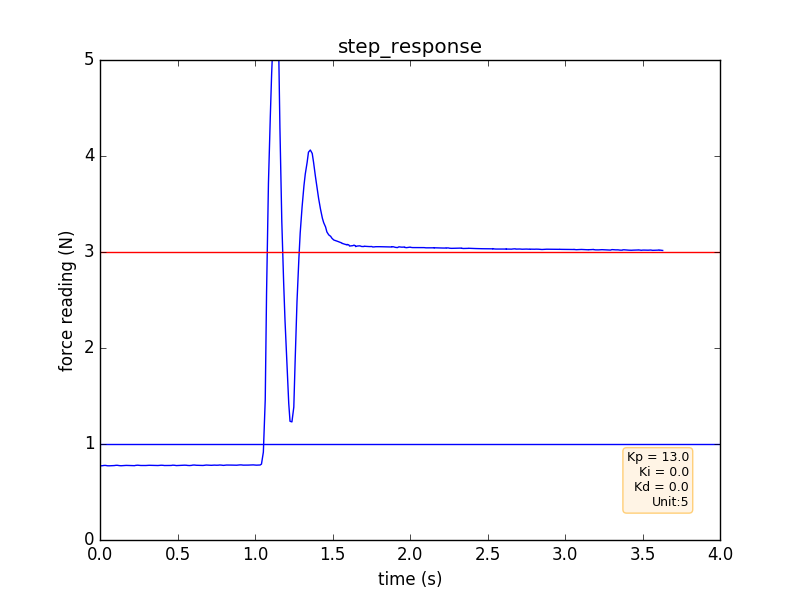
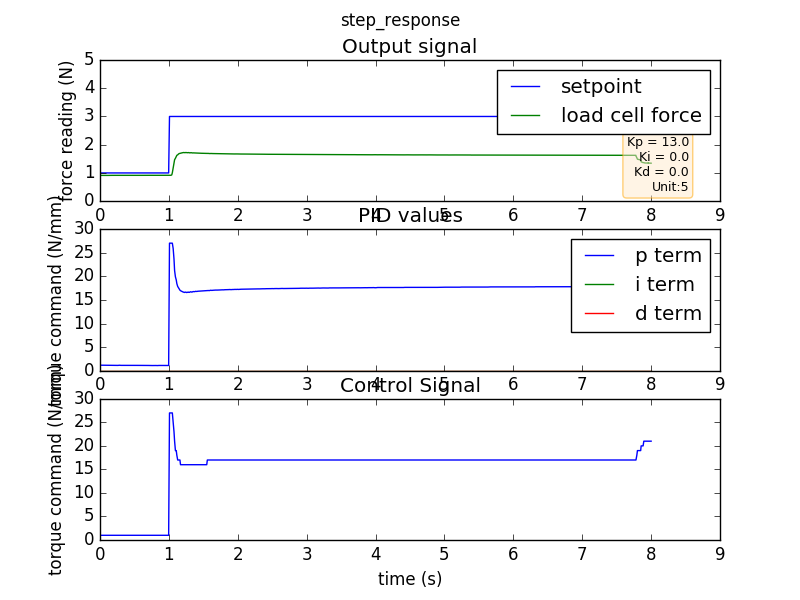
basic function work, will add multi_setpoint()

diff --git a/run_r2_torque_transient_response_tester.py b/run_r2_torque_transient_response_tester.py
@@ -33,6 +33,7 @@ import numpy as np
 import matplotlib.pyplot as plt
 import argparse
 from raven2_CRTK_torque_controller_FB import raven2_crtk_torque_controller
+import copy
 
 class torque_transient_response_tester():
 
@@ -134,14 +135,14 @@ class torque_transient_response_tester():
     #TODO: Create a callback function for torque command, extract the corresponding command from JointState msg based on the testing unit index
     def __callback_actual_torque_cmd(self, msg):
         #the torque cmd will be store in msg.position
-        #position is a list of size of 16, the force units occupy from 1 to 6
-        self.cur_tor_cmd = msg.position[self.testing_unit_index]
+        #position is a list of size of 16, the force units occupy from 0 to 5
+        self.cur_tor_cmd = msg.position[self.testing_unit_index-1]
     #TODO end
 
     #TODO: Create a callback function, extract the corresponding sublist from pid_msg based on the testing unit index
     def __callback_pid_term_val(self, msg):
         pid_term_for_unit = msg.poses[self.testing_unit_index].position
-        self.cur_p_term = pid_term_for_unit.x
+        self.cur_p_term = pid_term_for_unit.x 
         self.cur_i_term = pid_term_for_unit.y
         self.cur_d_term = pid_term_for_unit.z
     #TODO end
@@ -206,37 +207,51 @@ class torque_transient_response_tester():
         #plot the load cell force
         self.plotter("step_response")
 
+
+
         
 
     def plotter(self, plot_name="test"):
-        fig, ax = plt.subplots(2)
+        fig, ax = plt.subplots(3)
         fig.suptitle(plot_name)
 
         #plot setpoints, load cell readings and pid terms in first graph
         ax[0].plot(self.load_cell_force_times, self.setpoints, label="setpoint")
         ax[0].plot(self.load_cell_force_times, self.load_cell_forces, label="load cell force")
-        ax[0].plot(self.load_cell_force_times, self.p_terms, label="p term")
-        ax[0].plot(self.load_cell_force_times, self.i_terms, label="i term")
-        ax[0].plot(self.load_cell_force_times, self.d_terms, label="d term")
         ax[0].set(xlabel='time (s)', ylabel='force reading (N)')
-        ax[1].set_title("Output signal")
+        ax[0].set_title("Output signal")
 
         #display the pid parameter
         # add text box for the statistics
         stats = ('Kp = %.1f\nKi = %.1f\nKd = %.1f\nUnit:%i'%(self.pid_p, self.pid_i, self.pid_d, self.testing_unit_index))
         bbox = dict(boxstyle='round', fc='blanchedalmond', ec='orange', alpha=0.5)
-        ax[0].text(0.95, 0.07, stats, fontsize=9, bbox=bbox,transform=ax.transAxes, horizontalalignment='right')
+        ax[0].text(0.95, 0.07, stats, fontsize=9, bbox=bbox,transform=ax[0].transAxes, horizontalalignment='right')
         ax[0].set(ylim=(0, 5))
+        ax[0].legend()
+
+        #plot pid terms
+        ax[1].plot(self.load_cell_force_times, self.p_terms, label="p term")
+        ax[1].plot(self.load_cell_force_times, self.i_terms, label="i term")
+        ax[1].plot(self.load_cell_force_times, self.d_terms, label="d term")
+        ax[1].set(xlabel='time (s)', ylabel='torque command (N/mm)')
+        ax[1].set_title("PID values")
+        ax[1].legend()
 
         #plot control signal
-        ax[1].plot(self.load_cell_force_times, self.tor_cmds)
-        ax[1].set(xlabel='time (s)', ylabel='torque command (N/mm)')
-        ax[1].set_title("Control Signal")
+        ax[2].plot(self.load_cell_force_times, self.tor_cmds)
+        ax[2].set(xlabel='time (s)', ylabel='torque command (N/mm)')
+        ax[2].set_title("Control Signal")
+
+        #mng = plt.get_current_fig_manager()
+        #mng.full_screen_toggle()
+
+        figure = plt.gcf() # get current figure
+        figure.set_size_inches(8, 6)
 
 
         save_dir = '/home/supernova/raven2_CRTK_Python_controller/torque_controller/transient_response_test_fig/'
         file_name = plot_name + 'kp%.1f_ki%.1f_kd%.1f_unit%i'%(self.pid_p, self.pid_i, self.pid_d, self.testing_unit_index)
-        fig.savefig(save_dir + file_name + ".png")
+        fig.savefig(save_dir + file_name + ".png", dpi=100)
         plt.show()
 
 

diff --git a/raven2_CRTK_torque_controller_FB.py b/raven2_CRTK_torque_controller_FB.py
@@ -84,9 +84,9 @@ class raven2_crtk_torque_controller():
 
         #------------------------------
         #parameters for PID controller
-        self.force_pid_p = 0.8# p factor of force PID feedback control using load cell
-        self.force_pid_i = 0.8#1.0
-        self.force_pid_d = 0.5 #0.075
+        self.force_pid_p = 13# p factor of force PID feedback control using load cell
+        self.force_pid_i = 1.0 #1.0
+        self.force_pid_d = 0.0 #0.075
         # Anti windup        
         self.windupMax = 0
         # default value
@@ -100,7 +100,7 @@ class raven2_crtk_torque_controller():
         #TODO: create a pose array with 8 empty pose in it for storing pid terms value
         self.cur_pid_terms = geometry_msgs.msg.PoseArray()
         self.cur_pid_terms.header = std_msgs.msg.Header()
-        self.cur_pid_terms.poses = [geometry_msgs.msg.Pose()] * 8
+        self.cur_pid_terms.poses = [geometry_msgs.msg.Pose(), geometry_msgs.msg.Pose(), geometry_msgs.msg.Pose(), geometry_msgs.msg.Pose(), geometry_msgs.msg.Pose(), geometry_msgs.msg.Pose(), geometry_msgs.msg.Pose()]
         #TODO end
         
         self.load_cell_force = None  # (7,) array, [0] will not be used, [1] for motor 1, [2] for motor 2, so on and so forth
@@ -135,7 +135,7 @@ class raven2_crtk_torque_controller():
         
         #TODO: Create publisher for the PID term in torque controller, the topic will be /pid_vals
         topic = "pid_term_vals"
-        self.__publisher_pid_term_val = rospy.Publisher(topic, geometry_msgs.msg.PoseArray(), latch=True, queue_size=1)
+        self.__publisher_pid_term_val = rospy.Publisher(topic, geometry_msgs.msg.PoseArray, latch=True, queue_size=1)
         #TODO end
 
         # torque publishers
@@ -286,7 +286,7 @@ class raven2_crtk_torque_controller():
             print('No ravenstate or load cell force or torque command yet, command not sent.')
             return -1
         
-        force_command = self.load_cell_force_desired
+        force_command = self.load_cell_force_desired * 1.0
         cmd_comp = np.zeros((16))
         for i in range(1,7):
             # #torque controller with only P control
@@ -311,14 +311,16 @@ class raven2_crtk_torque_controller():
             i_term = self.force_pid_i * (self.e_sum[i] + self.e_cur[i])
             d_term = self.force_pid_d * (self.e_cur[i] - self.e_old[i])/dt
             #update the P,I, and D terms to the cur_pid_terms list
-            self.cur_pid_terms.poses[i].position.x = p_term
-            self.cur_pid_terms.poses[i].position.y = i_term
-            self.cur_pid_terms.poses[i].position.z = d_term
+            self.cur_pid_terms.poses[i].position.x = p_term * 1.0
+            self.cur_pid_terms.poses[i].position.y = i_term * 1.0
+            self.cur_pid_terms.poses[i].position.z = d_term * 1.0
+            #print("111111111111For debug - cur_pid_terms.poses = ",self.cur_pid_terms.poses)
 
             #torque controller with PID control
             #cmd_comp[i] = self.tau_cmd_cur[i] + self.force_pid_p * self.e_cur[i] + self.force_pid_d * (self.e_cur[i] - self.e_old[i]) + self.force_pid_i * (self.e_old[i] + self.e_cur[i])
             #cmd_comp[i] = self.torque_cmd[i] + self.force_pid_p * self.e_cur[i] + self.force_pid_d * (self.e_cur[i] - self.e_old[i])/dt + self.force_pid_i * (self.e_sum[i] + self.e_cur[i])
-            cmd_comp[i] = self.torque_cmd[i] + p_term + i_term + d_term
+            #cmd_comp[i] = self.torque_cmd[i] + p_term + i_term + d_term
+            cmd_comp[i] = p_term + i_term + d_term
 
             #if i == 5:
                 #print("D term: ", (self.e_cur[i] - self.e_old[i])/dt)
@@ -333,7 +335,9 @@ class raven2_crtk_torque_controller():
         self.tau_cmd_cur = cmd_comp[:]
         self.t_old = self.t_cur
         #publish the cur_pid_terms
+        #print("222222222222222For debug - cur_pid_terms = ",self.cur_pid_terms.poses)
         self.__publisher_pid_term_val.publish(self.cur_pid_terms)
+        
         #publish the compensated torque cmd
         self.pub_torque_command(cmd_comp.astype(int))
         print(cmd_comp.astype(int))
